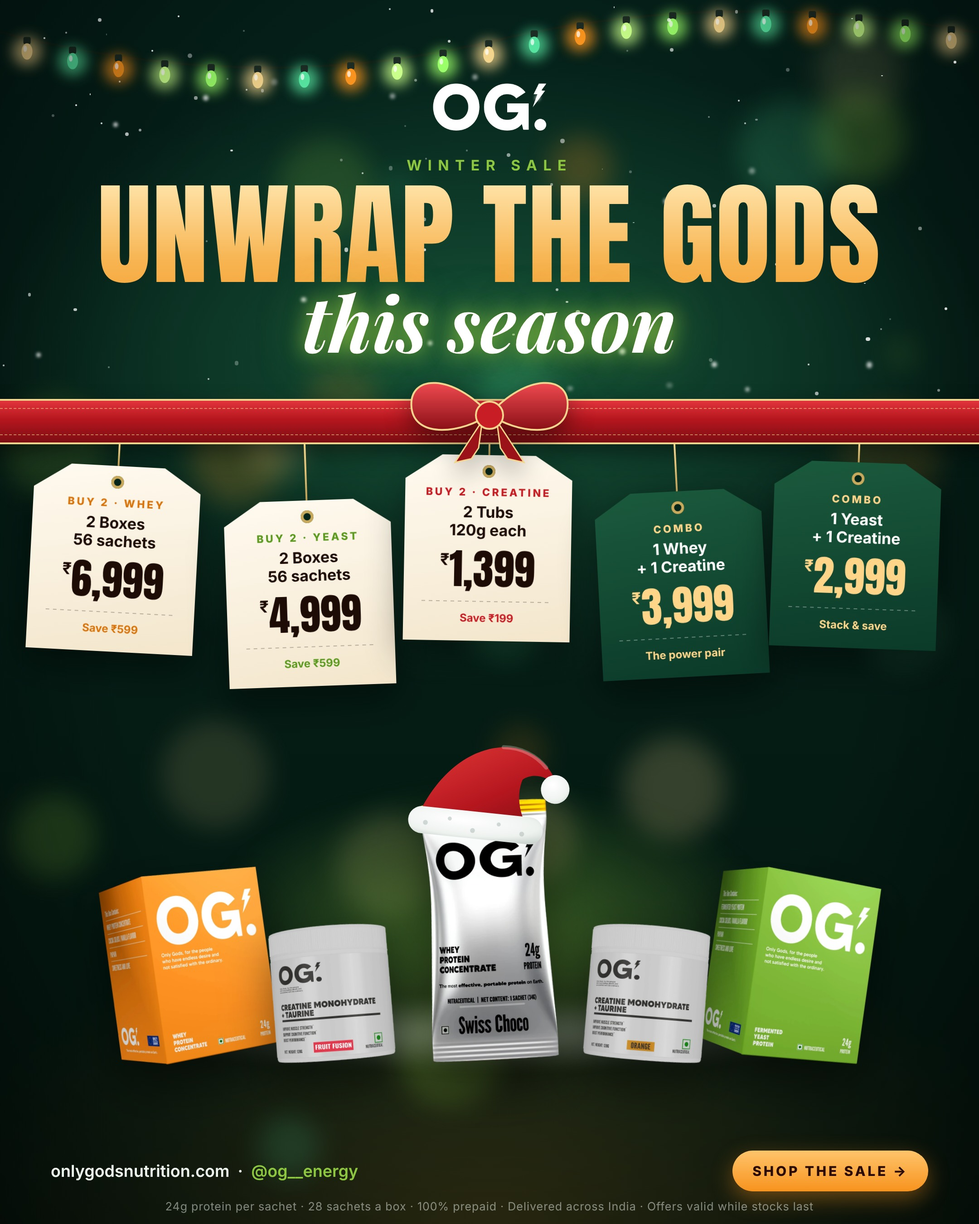
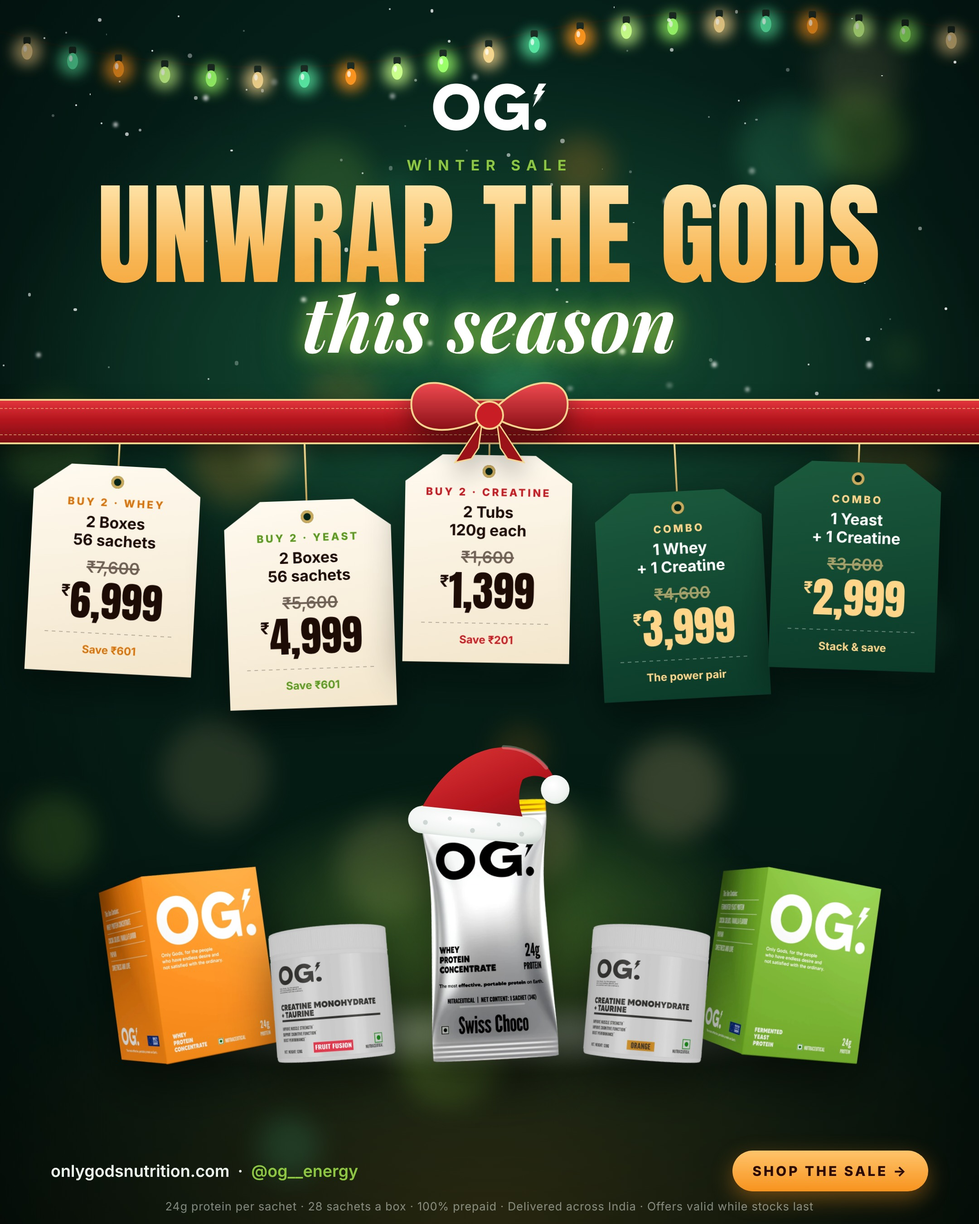
Posters: show rounded regular total struck through above each offer price
Claude-Session: https://claude.ai/code/session_01B2cYV8iqvZ7LxmceH5P2GA

diff --git a/posters/winter-sale-red.html b/posters/winter-sale-red.html
@@ -48,7 +48,7 @@
   .sub b{color:#fff}
 
   /* hero products */
-  .stage{position:absolute;top:540px;left:0;right:0;height:330px;z-index:4}
+  .stage{position:absolute;top:508px;left:0;right:0;height:330px;z-index:4}
   .glow{position:absolute;left:50%;top:40%;width:520px;height:300px;transform:translate(-50%,-50%);
     background:radial-gradient(closest-side,rgba(255,214,140,.6),rgba(247,147,30,.18) 60%,rgba(0,0,0,0));filter:blur(10px)}
   .floor{position:absolute;left:50%;bottom:-18px;width:760px;height:70px;transform:translateX(-50%);
@@ -56,19 +56,19 @@
   .prod{position:absolute;bottom:0;filter:drop-shadow(0 22px 26px rgba(0,0,0,.55))}
   .p-yeast{left:170px;height:265px;transform:rotate(-13deg);transform-origin:bottom center}
   .p-cre{right:130px;height:220px;transform:rotate(7deg);transform-origin:bottom center}
-  .hero{position:absolute;left:50%;bottom:-4px;width:172px;transform:translateX(-50%) rotate(-4deg);transform-origin:bottom center}
-  .hero img.s{width:172px;display:block;filter:drop-shadow(0 24px 28px rgba(0,0,0,.6))}
-  .hat{position:absolute;left:-30px;top:-92px;width:238px;transform:rotate(9deg);filter:drop-shadow(0 0 2px rgba(255,230,180,.9)) drop-shadow(0 0 16px rgba(255,200,120,.55))}
+  .hero{position:absolute;left:50%;bottom:-4px;width:154px;transform:translateX(-50%) rotate(-4deg);transform-origin:bottom center}
+  .hero img.s{width:154px;display:block;filter:drop-shadow(0 24px 28px rgba(0,0,0,.6))}
+  .hat{position:absolute;left:-27px;top:-82px;width:213px;transform:rotate(9deg);filter:drop-shadow(0 0 2px rgba(255,230,180,.9)) drop-shadow(0 0 16px rgba(255,200,120,.55))}
 
   /* offers */
-  .offers{position:absolute;top:900px;left:56px;right:56px;z-index:5}
+  .offers{position:absolute;top:852px;left:56px;right:56px;z-index:5}
   .sec{display:flex;align-items:center;gap:16px;margin:0 0 14px}
   .sec h3{font-family:Anton,Impact,sans-serif;font-weight:400;font-size:26px;letter-spacing:.08em;color:var(--gold)}
   .sec small{font-size:14px;font-weight:600;letter-spacing:.18em;text-transform:uppercase;color:rgba(234,245,236,.6)}
   .sec .rule{flex:1;height:1px;background:linear-gradient(90deg,rgba(244,213,141,.5),rgba(244,213,141,0))}
   .row{display:grid;gap:16px}
   .row.three{grid-template-columns:repeat(3,1fr)}
-  .row.two{grid-template-columns:repeat(2,1fr);margin-top:18px}
+  .row.two{grid-template-columns:repeat(2,1fr);margin-top:14px}
   .card{position:relative;border-radius:22px;padding:16px 22px 16px;overflow:hidden;
     background:linear-gradient(160deg,rgba(255,255,255,.10),rgba(255,255,255,.03));
     border:1px solid rgba(255,255,255,.14);box-shadow:inset 0 1px 0 rgba(255,255,255,.12),0 18px 40px rgba(0,0,0,.28)}
@@ -79,7 +79,7 @@
   .price{margin-top:8px;font-family:Anton,Impact,sans-serif;font-size:46px;line-height:1;color:#fff;letter-spacing:.01em}
   .price sup{font-family:Inter;font-weight:700;font-size:22px;vertical-align:top;position:relative;top:6px;margin-right:2px;color:rgba(255,255,255,.8)}
   .save{display:inline-block;margin-top:8px;font-size:13px;font-weight:700;letter-spacing:.06em;color:#2a040a;background:var(--a);padding:5px 10px;border-radius:99px}
-  .card.combo{display:flex;align-items:center;justify-content:space-between;gap:12px;padding:16px 26px;
+  .card.combo{display:flex;align-items:center;justify-content:space-between;gap:12px;padding:12px 26px;
     background:linear-gradient(135deg,rgba(247,147,30,.22),rgba(141,198,63,.12));border-color:rgba(244,213,141,.4)}
   .card.combo::before{background:linear-gradient(180deg,var(--orange),var(--lime))}
   .combo .price{margin-top:0;font-size:54px}
@@ -93,6 +93,8 @@
   .foot .r{margin-top:14px;text-align:center;font-size:12.5px;letter-spacing:.04em;color:rgba(234,245,236,.55)}
   .foot .cta{display:inline-block;font-weight:800;font-size:15px;letter-spacing:.16em;text-transform:uppercase;color:#2a040a;
     background:linear-gradient(180deg,#FFC46B,#F7931E);padding:13px 22px;border-radius:99px;box-shadow:0 8px 24px rgba(247,147,30,.4)}
+  .was{display:block;font-family:Inter,system-ui,sans-serif;font-style:normal;font-weight:600;font-size:18px;line-height:1.1;letter-spacing:0;
+    color:inherit;opacity:.62;text-decoration:line-through;text-decoration-thickness:2px;margin-bottom:4px;text-shadow:none;-webkit-text-fill-color:currentColor}
 </style>
 </head>
 <body>
@@ -156,31 +158,31 @@
       <div class="card" style="--a:var(--orange)">
         <div class="tag">Whey Protein</div>
         <div class="name">2 Boxes <span class="x">×</span> 56 sachets</div>
-        <div class="price"><sup>₹</sup>6,999</div>
-        <span class="save">Save ₹599</span>
+        <div class="price"><s class="was">₹7,600</s><sup>₹</sup>6,999</div>
+        <span class="save">Save ₹601</span>
       </div>
       <div class="card" style="--a:var(--lime)">
         <div class="tag">Yeast Protein</div>
         <div class="name">2 Boxes <span class="x">×</span> 56 sachets</div>
-        <div class="price"><sup>₹</sup>4,999</div>
-        <span class="save">Save ₹599</span>
+        <div class="price"><s class="was">₹5,600</s><sup>₹</sup>4,999</div>
+        <span class="save">Save ₹601</span>
       </div>
       <div class="card" style="--a:#FFB4A8">
         <div class="tag">Creatine + Taurine</div>
         <div class="name">2 Tubs <span class="x">×</span> 120g</div>
-        <div class="price"><sup>₹</sup>1,399</div>
-        <span class="save">Save ₹199</span>
+        <div class="price"><s class="was">₹1,600</s><sup>₹</sup>1,399</div>
+        <span class="save">Save ₹201</span>
       </div>
     </div>
 
     <div class="row two">
       <div class="card combo">
         <div><div class="tag" style="--a:var(--gold)">Combo</div><div class="name">Whey <span class="plus">+</span> Creatine</div></div>
-        <div class="price"><sup>₹</sup>3,999</div>
+        <div class="price"><s class="was">₹4,600</s><sup>₹</sup>3,999</div>
       </div>
       <div class="card combo">
         <div><div class="tag" style="--a:var(--gold)">Combo</div><div class="name">Yeast <span class="plus">+</span> Creatine</div></div>
-        <div class="price"><sup>₹</sup>2,999</div>
+        <div class="price"><s class="was">₹3,600</s><sup>₹</sup>2,999</div>
       </div>
     </div>
   </div>

diff --git a/posters/winter-sale.html b/posters/winter-sale.html
@@ -48,7 +48,7 @@
   .sub b{color:#fff}
 
   /* hero products */
-  .stage{position:absolute;top:540px;left:0;right:0;height:330px;z-index:4}
+  .stage{position:absolute;top:508px;left:0;right:0;height:330px;z-index:4}
   .glow{position:absolute;left:50%;top:40%;width:520px;height:300px;transform:translate(-50%,-50%);
     background:radial-gradient(closest-side,rgba(141,198,63,.55),rgba(141,198,63,.12) 60%,rgba(0,0,0,0));filter:blur(10px)}
   .floor{position:absolute;left:50%;bottom:-18px;width:760px;height:70px;transform:translateX(-50%);
@@ -56,19 +56,19 @@
   .prod{position:absolute;bottom:0;filter:drop-shadow(0 22px 26px rgba(0,0,0,.55))}
   .p-yeast{left:170px;height:265px;transform:rotate(-13deg);transform-origin:bottom center}
   .p-cre{right:130px;height:220px;transform:rotate(7deg);transform-origin:bottom center}
-  .hero{position:absolute;left:50%;bottom:-4px;width:172px;transform:translateX(-50%) rotate(-4deg);transform-origin:bottom center}
-  .hero img.s{width:172px;display:block;filter:drop-shadow(0 24px 28px rgba(0,0,0,.6))}
-  .hat{position:absolute;left:-30px;top:-92px;width:238px;transform:rotate(9deg)}
+  .hero{position:absolute;left:50%;bottom:-4px;width:154px;transform:translateX(-50%) rotate(-4deg);transform-origin:bottom center}
+  .hero img.s{width:154px;display:block;filter:drop-shadow(0 24px 28px rgba(0,0,0,.6))}
+  .hat{position:absolute;left:-27px;top:-82px;width:213px;transform:rotate(9deg)}
 
   /* offers */
-  .offers{position:absolute;top:900px;left:56px;right:56px;z-index:5}
+  .offers{position:absolute;top:852px;left:56px;right:56px;z-index:5}
   .sec{display:flex;align-items:center;gap:16px;margin:0 0 14px}
   .sec h3{font-family:Anton,Impact,sans-serif;font-weight:400;font-size:26px;letter-spacing:.08em;color:var(--gold)}
   .sec small{font-size:14px;font-weight:600;letter-spacing:.18em;text-transform:uppercase;color:rgba(234,245,236,.6)}
   .sec .rule{flex:1;height:1px;background:linear-gradient(90deg,rgba(244,213,141,.5),rgba(244,213,141,0))}
   .row{display:grid;gap:16px}
   .row.three{grid-template-columns:repeat(3,1fr)}
-  .row.two{grid-template-columns:repeat(2,1fr);margin-top:18px}
+  .row.two{grid-template-columns:repeat(2,1fr);margin-top:14px}
   .card{position:relative;border-radius:22px;padding:16px 22px 16px;overflow:hidden;
     background:linear-gradient(160deg,rgba(255,255,255,.10),rgba(255,255,255,.03));
     border:1px solid rgba(255,255,255,.14);box-shadow:inset 0 1px 0 rgba(255,255,255,.12),0 18px 40px rgba(0,0,0,.28)}
@@ -79,7 +79,7 @@
   .price{margin-top:8px;font-family:Anton,Impact,sans-serif;font-size:46px;line-height:1;color:#fff;letter-spacing:.01em}
   .price sup{font-family:Inter;font-weight:700;font-size:22px;vertical-align:top;position:relative;top:6px;margin-right:2px;color:rgba(255,255,255,.8)}
   .save{display:inline-block;margin-top:8px;font-size:13px;font-weight:700;letter-spacing:.06em;color:#06251a;background:var(--a);padding:5px 10px;border-radius:99px}
-  .card.combo{display:flex;align-items:center;justify-content:space-between;gap:12px;padding:16px 26px;
+  .card.combo{display:flex;align-items:center;justify-content:space-between;gap:12px;padding:12px 26px;
     background:linear-gradient(135deg,rgba(247,147,30,.20),rgba(141,198,63,.14));border-color:rgba(244,213,141,.35)}
   .card.combo::before{background:linear-gradient(180deg,var(--orange),var(--lime))}
   .combo .price{margin-top:0;font-size:54px}
@@ -93,6 +93,8 @@
   .foot .r{margin-top:14px;text-align:center;font-size:12.5px;letter-spacing:.04em;color:rgba(234,245,236,.55)}
   .foot .cta{display:inline-block;font-weight:800;font-size:15px;letter-spacing:.16em;text-transform:uppercase;color:#06251a;
     background:linear-gradient(180deg,#FFC46B,#F7931E);padding:13px 22px;border-radius:99px;box-shadow:0 8px 24px rgba(247,147,30,.4)}
+  .was{display:block;font-family:Inter,system-ui,sans-serif;font-style:normal;font-weight:600;font-size:18px;line-height:1.1;letter-spacing:0;
+    color:inherit;opacity:.62;text-decoration:line-through;text-decoration-thickness:2px;margin-bottom:4px;text-shadow:none;-webkit-text-fill-color:currentColor}
 </style>
 </head>
 <body>
@@ -156,31 +158,31 @@
       <div class="card" style="--a:var(--orange)">
         <div class="tag">Whey Protein</div>
         <div class="name">2 Boxes <span class="x">×</span> 56 sachets</div>
-        <div class="price"><sup>₹</sup>6,999</div>
-        <span class="save">Save ₹599</span>
+        <div class="price"><s class="was">₹7,600</s><sup>₹</sup>6,999</div>
+        <span class="save">Save ₹601</span>
       </div>
       <div class="card" style="--a:var(--lime)">
         <div class="tag">Yeast Protein</div>
         <div class="name">2 Boxes <span class="x">×</span> 56 sachets</div>
-        <div class="price"><sup>₹</sup>4,999</div>
-        <span class="save">Save ₹599</span>
+        <div class="price"><s class="was">₹5,600</s><sup>₹</sup>4,999</div>
+        <span class="save">Save ₹601</span>
       </div>
       <div class="card" style="--a:#FF6B5E">
         <div class="tag">Creatine + Taurine</div>
         <div class="name">2 Tubs <span class="x">×</span> 120g</div>
-        <div class="price"><sup>₹</sup>1,399</div>
-        <span class="save">Save ₹199</span>
+        <div class="price"><s class="was">₹1,600</s><sup>₹</sup>1,399</div>
+        <span class="save">Save ₹201</span>
       </div>
     </div>
 
     <div class="row two">
       <div class="card combo">
         <div><div class="tag" style="--a:var(--gold)">Combo</div><div class="name">Whey <span class="plus">+</span> Creatine</div></div>
-        <div class="price"><sup>₹</sup>3,999</div>
+        <div class="price"><s class="was">₹4,600</s><sup>₹</sup>3,999</div>
       </div>
       <div class="card combo">
         <div><div class="tag" style="--a:var(--gold)">Combo</div><div class="name">Yeast <span class="plus">+</span> Creatine</div></div>
-        <div class="price"><sup>₹</sup>2,999</div>
+        <div class="price"><s class="was">₹3,600</s><sup>₹</sup>2,999</div>
       </div>
     </div>
   </div>

diff --git a/posters/winter-sale-2-gift-tags.html b/posters/winter-sale-2-gift-tags.html
@@ -56,6 +56,8 @@
   .foot{position:absolute;left:56px;right:56px;bottom:36px;z-index:5;display:flex;justify-content:space-between;align-items:center}
   .foot .l{font-size:18px;font-weight:600}.foot .l span{color:var(--lime)}
   .fine{position:absolute;left:0;right:0;bottom:12px;text-align:center;color:rgba(238,246,239,.5);z-index:5}
+  .was{display:block;font-family:Inter,system-ui,sans-serif;font-style:normal;font-weight:600;font-size:18px;line-height:1.1;letter-spacing:0;
+    color:inherit;opacity:.62;text-decoration:line-through;text-decoration-thickness:2px;margin-bottom:4px;text-shadow:none;-webkit-text-fill-color:currentColor}
 </style></head>
 <body><div class="poster">
   <div class="layer bokeh" id="bokeh"></div>
@@ -79,15 +81,15 @@
 
   <div class="tags">
     <div class="tagw" style="transform:rotate(3deg)"><div class="string" style="height:24px"></div><div class="shadow"><div class="tag" style="--a:#d9740b">
-      <div class="t">Buy 2 · Whey</div><div class="n">2 Boxes<br/>56 sachets</div><div class="p"><sup>₹</sup>6,999</div><div class="rule"></div><div class="f">Save ₹599</div></div></div></div>
+      <div class="t">Buy 2 · Whey</div><div class="n">2 Boxes<br/>56 sachets</div><div class="p"><s class="was">₹7,600</s><sup>₹</sup>6,999</div><div class="rule"></div><div class="f">Save ₹601</div></div></div></div>
     <div class="tagw" style="transform:rotate(-2deg)"><div class="string" style="height:62px"></div><div class="shadow"><div class="tag" style="--a:#5b9a1f">
-      <div class="t">Buy 2 · Yeast</div><div class="n">2 Boxes<br/>56 sachets</div><div class="p"><sup>₹</sup>4,999</div><div class="rule"></div><div class="f">Save ₹599</div></div></div></div>
+      <div class="t">Buy 2 · Yeast</div><div class="n">2 Boxes<br/>56 sachets</div><div class="p"><s class="was">₹5,600</s><sup>₹</sup>4,999</div><div class="rule"></div><div class="f">Save ₹601</div></div></div></div>
     <div class="tagw" style="transform:rotate(1deg)"><div class="string" style="height:12px"></div><div class="shadow"><div class="tag" style="--a:#c81d25">
-      <div class="t">Buy 2 · Creatine</div><div class="n">2 Tubs<br/>120g each</div><div class="p"><sup>₹</sup>1,399</div><div class="rule"></div><div class="f">Save ₹199</div></div></div></div>
+      <div class="t">Buy 2 · Creatine</div><div class="n">2 Tubs<br/>120g each</div><div class="p"><s class="was">₹1,600</s><sup>₹</sup>1,399</div><div class="rule"></div><div class="f">Save ₹201</div></div></div></div>
     <div class="tagw" style="transform:rotate(-3deg)"><div class="string" style="height:52px"></div><div class="shadow"><div class="tag combo" style="--a:#FFD58A">
-      <div class="t">Combo</div><div class="n">1 Whey<br/>+ 1 Creatine</div><div class="p"><sup>₹</sup>3,999</div><div class="rule"></div><div class="f">The power pair</div></div></div></div>
+      <div class="t">Combo</div><div class="n">1 Whey<br/>+ 1 Creatine</div><div class="p"><s class="was">₹4,600</s><sup>₹</sup>3,999</div><div class="rule"></div><div class="f">The power pair</div></div></div></div>
     <div class="tagw" style="transform:rotate(2deg)"><div class="string" style="height:20px"></div><div class="shadow"><div class="tag combo" style="--a:#FFD58A">
-      <div class="t">Combo</div><div class="n">1 Yeast<br/>+ 1 Creatine</div><div class="p"><sup>₹</sup>2,999</div><div class="rule"></div><div class="f">Stack &amp; save</div></div></div></div>
+      <div class="t">Combo</div><div class="n">1 Yeast<br/>+ 1 Creatine</div><div class="p"><s class="was">₹3,600</s><sup>₹</sup>2,999</div><div class="rule"></div><div class="f">Stack &amp; save</div></div></div></div>
   </div>
 
   <div class="stage">

diff --git a/posters/winter-sale-6-vouchers.html b/posters/winter-sale-6-vouchers.html
@@ -48,6 +48,8 @@
   .foot{position:absolute;left:56px;right:56px;bottom:44px;z-index:5;display:flex;justify-content:space-between;align-items:center}
   .foot .l{font-size:18px;font-weight:600}.foot .l span{color:var(--lime)}
   .fine{position:absolute;left:0;right:0;bottom:16px;text-align:center;color:rgba(238,246,239,.5);z-index:5}
+  .was{display:block;font-family:Inter,system-ui,sans-serif;font-style:normal;font-weight:600;font-size:18px;line-height:1.1;letter-spacing:0;
+    color:inherit;opacity:.62;text-decoration:line-through;text-decoration-thickness:2px;margin-bottom:4px;text-shadow:none;-webkit-text-fill-color:currentColor}
 </style></head>
 <body><div class="poster">
   <div class="layer bokeh" id="bokeh"></div>
@@ -62,11 +64,11 @@
   </div>
 
   <div class="vlist">
-    <div class="v" style="--a:#F7931E;--k:#c76a06"><div class="stub"><span>BUY 2</span></div><div class="body"><div class="l"><small>Whey Protein</small><b>2 Boxes</b><i>56 sachets · 24g protein each</i></div><div class="p"><sup>₹</sup>6,999</div></div></div>
-    <div class="v" style="--a:#8DC63F;--k:#4f8a17"><div class="stub"><span>BUY 2</span></div><div class="body"><div class="l"><small>Yeast Protein</small><b>2 Boxes</b><i>56 sachets · 24g protein each</i></div><div class="p"><sup>₹</sup>4,999</div></div></div>
-    <div class="v" style="--a:#FF7A6B;--k:#c81d25"><div class="stub"><span>BUY 2</span></div><div class="body"><div class="l"><small>Creatine + Taurine</small><b>2 Tubs</b><i>120g each</i></div><div class="p"><sup>₹</sup>1,399</div></div></div>
-    <div class="v combo" style="--a:#F4D58D;--k:#FFD58A"><div class="stub"><span>COMBO</span></div><div class="body"><div class="l"><small>1 + 1</small><b>Whey + Creatine</b><i>1 box + 1 tub</i></div><div class="p"><sup>₹</sup>3,999</div></div></div>
-    <div class="v combo" style="--a:#F4D58D;--k:#FFD58A"><div class="stub"><span>COMBO</span></div><div class="body"><div class="l"><small>1 + 1</small><b>Yeast + Creatine</b><i>1 box + 1 tub</i></div><div class="p"><sup>₹</sup>2,999</div></div></div>
+    <div class="v" style="--a:#F7931E;--k:#c76a06"><div class="stub"><span>BUY 2</span></div><div class="body"><div class="l"><small>Whey Protein</small><b>2 Boxes</b><i>56 sachets · 24g protein each</i></div><div class="p"><s class="was">₹7,600</s><sup>₹</sup>6,999</div></div></div>
+    <div class="v" style="--a:#8DC63F;--k:#4f8a17"><div class="stub"><span>BUY 2</span></div><div class="body"><div class="l"><small>Yeast Protein</small><b>2 Boxes</b><i>56 sachets · 24g protein each</i></div><div class="p"><s class="was">₹5,600</s><sup>₹</sup>4,999</div></div></div>
+    <div class="v" style="--a:#FF7A6B;--k:#c81d25"><div class="stub"><span>BUY 2</span></div><div class="body"><div class="l"><small>Creatine + Taurine</small><b>2 Tubs</b><i>120g each</i></div><div class="p"><s class="was">₹1,600</s><sup>₹</sup>1,399</div></div></div>
+    <div class="v combo" style="--a:#F4D58D;--k:#FFD58A"><div class="stub"><span>COMBO</span></div><div class="body"><div class="l"><small>1 + 1</small><b>Whey + Creatine</b><i>1 box + 1 tub</i></div><div class="p"><s class="was">₹4,600</s><sup>₹</sup>3,999</div></div></div>
+    <div class="v combo" style="--a:#F4D58D;--k:#FFD58A"><div class="stub"><span>COMBO</span></div><div class="body"><div class="l"><small>1 + 1</small><b>Yeast + Creatine</b><i>1 box + 1 tub</i></div><div class="p"><s class="was">₹3,600</s><sup>₹</sup>2,999</div></div></div>
   </div>
 
   <div class="hero-wrap">

diff --git a/posters/winter-sale-3-snow-globe.html b/posters/winter-sale-3-snow-globe.html
@@ -55,6 +55,8 @@
   .foot{position:absolute;left:64px;right:64px;bottom:44px;z-index:5;display:flex;justify-content:space-between;align-items:center}
   .foot .l{font-size:18px;font-weight:600}.foot .l span{color:var(--lime)}
   .fine{position:absolute;left:0;right:0;bottom:16px;text-align:center;color:rgba(238,246,239,.45);z-index:5}
+  .was{display:block;font-family:Inter,system-ui,sans-serif;font-style:normal;font-weight:600;font-size:18px;line-height:1.1;letter-spacing:0;
+    color:inherit;opacity:.62;text-decoration:line-through;text-decoration-thickness:2px;margin-bottom:4px;text-shadow:none;-webkit-text-fill-color:currentColor}
 </style></head>
 <body><div class="poster">
   <div class="layer bokeh" id="bokeh"></div>
@@ -81,14 +83,14 @@
   <div class="menu">
     <div class="col">
       <h3>DOUBLE UP <small>BUY 2</small></h3>
-      <div class="li"><span class="nm"><i class="sw" style="--a:var(--orange)"></i>Whey Protein<small>2 boxes · 56 sachets</small></span><span class="dots"></span><span class="pr"><sup>₹</sup>6,999</span></div>
-      <div class="li"><span class="nm"><i class="sw" style="--a:var(--lime)"></i>Yeast Protein<small>2 boxes · 56 sachets</small></span><span class="dots"></span><span class="pr"><sup>₹</sup>4,999</span></div>
-      <div class="li"><span class="nm"><i class="sw" style="--a:#FF6B5E"></i>Creatine + Taurine<small>2 tubs · 120g each</small></span><span class="dots"></span><span class="pr"><sup>₹</sup>1,399</span></div>
+      <div class="li"><span class="nm"><i class="sw" style="--a:var(--orange)"></i>Whey Protein<small>2 boxes · 56 sachets</small></span><span class="dots"></span><span class="pr"><s class="was">₹7,600</s><sup>₹</sup>6,999</span></div>
+      <div class="li"><span class="nm"><i class="sw" style="--a:var(--lime)"></i>Yeast Protein<small>2 boxes · 56 sachets</small></span><span class="dots"></span><span class="pr"><s class="was">₹5,600</s><sup>₹</sup>4,999</span></div>
+      <div class="li"><span class="nm"><i class="sw" style="--a:#FF6B5E"></i>Creatine + Taurine<small>2 tubs · 120g each</small></span><span class="dots"></span><span class="pr"><s class="was">₹1,600</s><sup>₹</sup>1,399</span></div>
     </div>
     <div class="col">
       <h3>COMBOS <small>1 + 1</small></h3>
-      <div class="li"><span class="nm"><i class="sw" style="--a:var(--orange)"></i>Whey + Creatine<small>1 box + 1 tub</small></span><span class="dots"></span><span class="pr"><sup>₹</sup>3,999</span></div>
-      <div class="li"><span class="nm"><i class="sw" style="--a:var(--lime)"></i>Yeast + Creatine<small>1 box + 1 tub</small></span><span class="dots"></span><span class="pr"><sup>₹</sup>2,999</span></div>
+      <div class="li"><span class="nm"><i class="sw" style="--a:var(--orange)"></i>Whey + Creatine<small>1 box + 1 tub</small></span><span class="dots"></span><span class="pr"><s class="was">₹4,600</s><sup>₹</sup>3,999</span></div>
+      <div class="li"><span class="nm"><i class="sw" style="--a:var(--lime)"></i>Yeast + Creatine<small>1 box + 1 tub</small></span><span class="dots"></span><span class="pr"><s class="was">₹3,600</s><sup>₹</sup>2,999</span></div>
       <div class="li" style="padding-top:22px"><span class="cta" style="width:100%;text-align:center">Shop the sale →</span></div>
     </div>
   </div>

diff --git a/posters/winter-sale-4-sachet-tree.html b/posters/winter-sale-4-sachet-tree.html
@@ -43,6 +43,8 @@
   .foot{position:absolute;left:56px;right:56px;bottom:52px;z-index:5;display:flex;justify-content:space-between;align-items:center;color:#0b2a1f}
   .foot .l{font-size:18px;font-weight:700}.foot .l span{color:#2f6f12}
   .fine{position:absolute;left:0;right:0;bottom:22px;text-align:center;color:rgba(11,42,31,.6);z-index:5}
+  .was{display:block;font-family:Inter,system-ui,sans-serif;font-style:normal;font-weight:600;font-size:18px;line-height:1.1;letter-spacing:0;
+    color:inherit;opacity:.62;text-decoration:line-through;text-decoration-thickness:2px;margin-bottom:4px;text-shadow:none;-webkit-text-fill-color:currentColor}
 </style></head>
 <body><div class="poster">
   <div class="layer bokeh" id="bokeh"></div>
@@ -59,12 +61,12 @@
 
   <div class="offers">
     <div class="grp">DOUBLE UP · BUY 2</div>
-    <div class="o" style="--a:var(--orange)"><div class="n"><small>Whey Protein</small>2 boxes · 56 sachets</div><div class="p"><sup>₹</sup>6,999</div></div>
-    <div class="o" style="--a:var(--lime)"><div class="n"><small>Yeast Protein</small>2 boxes · 56 sachets</div><div class="p"><sup>₹</sup>4,999</div></div>
-    <div class="o" style="--a:#FF7A6B"><div class="n"><small>Creatine + Taurine</small>2 tubs · 120g each</div><div class="p"><sup>₹</sup>1,399</div></div>
+    <div class="o" style="--a:var(--orange)"><div class="n"><small>Whey Protein</small>2 boxes · 56 sachets</div><div class="p"><s class="was">₹7,600</s><sup>₹</sup>6,999</div></div>
+    <div class="o" style="--a:var(--lime)"><div class="n"><small>Yeast Protein</small>2 boxes · 56 sachets</div><div class="p"><s class="was">₹5,600</s><sup>₹</sup>4,999</div></div>
+    <div class="o" style="--a:#FF7A6B"><div class="n"><small>Creatine + Taurine</small>2 tubs · 120g each</div><div class="p"><s class="was">₹1,600</s><sup>₹</sup>1,399</div></div>
     <div class="grp g2">COMBOS · 1 + 1</div>
-    <div class="o c" style="--a:var(--gold)"><div class="n"><small>Combo</small>Whey + Creatine</div><div class="p"><sup>₹</sup>3,999</div></div>
-    <div class="o c" style="--a:var(--gold)"><div class="n"><small>Combo</small>Yeast + Creatine</div><div class="p"><sup>₹</sup>2,999</div></div>
+    <div class="o c" style="--a:var(--gold)"><div class="n"><small>Combo</small>Whey + Creatine</div><div class="p"><s class="was">₹4,600</s><sup>₹</sup>3,999</div></div>
+    <div class="o c" style="--a:var(--gold)"><div class="n"><small>Combo</small>Yeast + Creatine</div><div class="p"><s class="was">₹3,600</s><sup>₹</sup>2,999</div></div>
   </div>
 
   <div class="tree" id="tree">

diff --git a/posters/winter-sale-7-storybook.html b/posters/winter-sale-7-storybook.html
@@ -43,6 +43,8 @@
   .foot .l{font-size:19px;font-weight:800}.foot .l span{color:var(--g)}
   .btn{font-family:"Baloo 2",sans-serif;font-weight:800;font-size:24px;color:#fff;background:var(--rd);border:3px solid var(--ink);border-radius:99px;padding:6px 26px 4px;box-shadow:5px 5px 0 var(--ink)}
   .fine{position:absolute;left:0;right:0;bottom:30px;text-align:center;color:#555;z-index:7}
+  .was{display:block;font-family:Inter,system-ui,sans-serif;font-style:normal;font-weight:600;font-size:18px;line-height:1.1;letter-spacing:0;
+    color:inherit;opacity:.62;text-decoration:line-through;text-decoration-thickness:2px;margin-bottom:4px;text-shadow:none;-webkit-text-fill-color:currentColor}
 </style></head>
 <body><div class="poster">
 <div class="card">
@@ -74,13 +76,13 @@
 
   <div class="offers">
     <div class="row r3">
-      <div class="o" style="--a:#F7931E"><span class="t">Buy 2 Whey</span><div class="n">56 sachets</div><div class="pr"><sup>₹</sup>6,999</div></div>
-      <div class="o" style="--a:#6aa630"><span class="t">Buy 2 Yeast</span><div class="n">56 sachets</div><div class="pr"><sup>₹</sup>4,999</div></div>
-      <div class="o" style="--a:#e2372b"><span class="t">Buy 2 Creatine</span><div class="n">2 × 120g tubs</div><div class="pr"><sup>₹</sup>1,399</div></div>
+      <div class="o" style="--a:#F7931E"><span class="t">Buy 2 Whey</span><div class="n">56 sachets</div><div class="pr"><s class="was">₹7,600</s><sup>₹</sup>6,999</div></div>
+      <div class="o" style="--a:#6aa630"><span class="t">Buy 2 Yeast</span><div class="n">56 sachets</div><div class="pr"><s class="was">₹5,600</s><sup>₹</sup>4,999</div></div>
+      <div class="o" style="--a:#e2372b"><span class="t">Buy 2 Creatine</span><div class="n">2 × 120g tubs</div><div class="pr"><s class="was">₹1,600</s><sup>₹</sup>1,399</div></div>
     </div>
     <div class="row r2">
-      <div class="o c"><div><span class="t">Combo</span><div class="n">Whey + Creatine</div></div><div class="pr"><sup>₹</sup>3,999</div></div>
-      <div class="o c"><div><span class="t">Combo</span><div class="n">Yeast + Creatine</div></div><div class="pr"><sup>₹</sup>2,999</div></div>
+      <div class="o c"><div><span class="t">Combo</span><div class="n">Whey + Creatine</div></div><div class="pr"><s class="was">₹4,600</s><sup>₹</sup>3,999</div></div>
+      <div class="o c"><div><span class="t">Combo</span><div class="n">Yeast + Creatine</div></div><div class="pr"><s class="was">₹3,600</s><sup>₹</sup>2,999</div></div>
     </div>
   </div>
 

diff --git a/posters/winter-sale-5-editorial.html b/posters/winter-sale-5-editorial.html
@@ -53,6 +53,8 @@
   .foot .l{font-size:17px;font-weight:700;color:var(--pine)}.foot .l span{color:var(--berry)}
   .cta{background:var(--berry);color:#fff;box-shadow:0 8px 20px rgba(163,18,28,.3)}
   .fine{position:absolute;left:0;right:0;bottom:62px;text-align:center;color:#7a6a58;z-index:5}
+  .was{display:block;font-family:Inter,system-ui,sans-serif;font-style:normal;font-weight:600;font-size:18px;line-height:1.1;letter-spacing:0;
+    color:inherit;opacity:.62;text-decoration:line-through;text-decoration-thickness:2px;margin-bottom:4px;text-shadow:none;-webkit-text-fill-color:currentColor}
 </style></head>
 <body><div class="poster">
   <svg class="layer" id="lights" viewBox="0 0 1080 1350" style="z-index:4"></svg>
@@ -75,14 +77,14 @@
   <div class="menu">
     <p class="mh">Buy any two</p>
     <div class="three">
-      <div style="--a:#d9740b"><div class="lbl">Whey Protein</div><div class="q">2 boxes · 56 sachets</div><div class="pr"><sup>₹</sup>6,999</div></div>
-      <div style="--a:#4f8a17"><div class="lbl">Yeast Protein</div><div class="q">2 boxes · 56 sachets</div><div class="pr"><sup>₹</sup>4,999</div></div>
-      <div style="--a:var(--berry)"><div class="lbl">Creatine + Taurine</div><div class="q">2 tubs · 120g each</div><div class="pr"><sup>₹</sup>1,399</div></div>
+      <div style="--a:#d9740b"><div class="lbl">Whey Protein</div><div class="q">2 boxes · 56 sachets</div><div class="pr"><s class="was">₹7,600</s><sup>₹</sup>6,999</div></div>
+      <div style="--a:#4f8a17"><div class="lbl">Yeast Protein</div><div class="q">2 boxes · 56 sachets</div><div class="pr"><s class="was">₹5,600</s><sup>₹</sup>4,999</div></div>
+      <div style="--a:var(--berry)"><div class="lbl">Creatine + Taurine</div><div class="q">2 tubs · 120g each</div><div class="pr"><s class="was">₹1,600</s><sup>₹</sup>1,399</div></div>
     </div>
     <div class="band">
       <div class="tagc">COMBOS</div>
-      <div class="cb"><b><small>1 + 1</small>Whey + Creatine</b><span class="pr"><sup>₹</sup>3,999</span></div>
-      <div class="cb"><b><small>1 + 1</small>Yeast + Creatine</b><span class="pr"><sup>₹</sup>2,999</span></div>
+      <div class="cb"><b><small>1 + 1</small>Whey + Creatine</b><span class="pr"><s class="was">₹4,600</s><sup>₹</sup>3,999</span></div>
+      <div class="cb"><b><small>1 + 1</small>Yeast + Creatine</b><span class="pr"><s class="was">₹3,600</s><sup>₹</sup>2,999</span></div>
     </div>
   </div>
 
